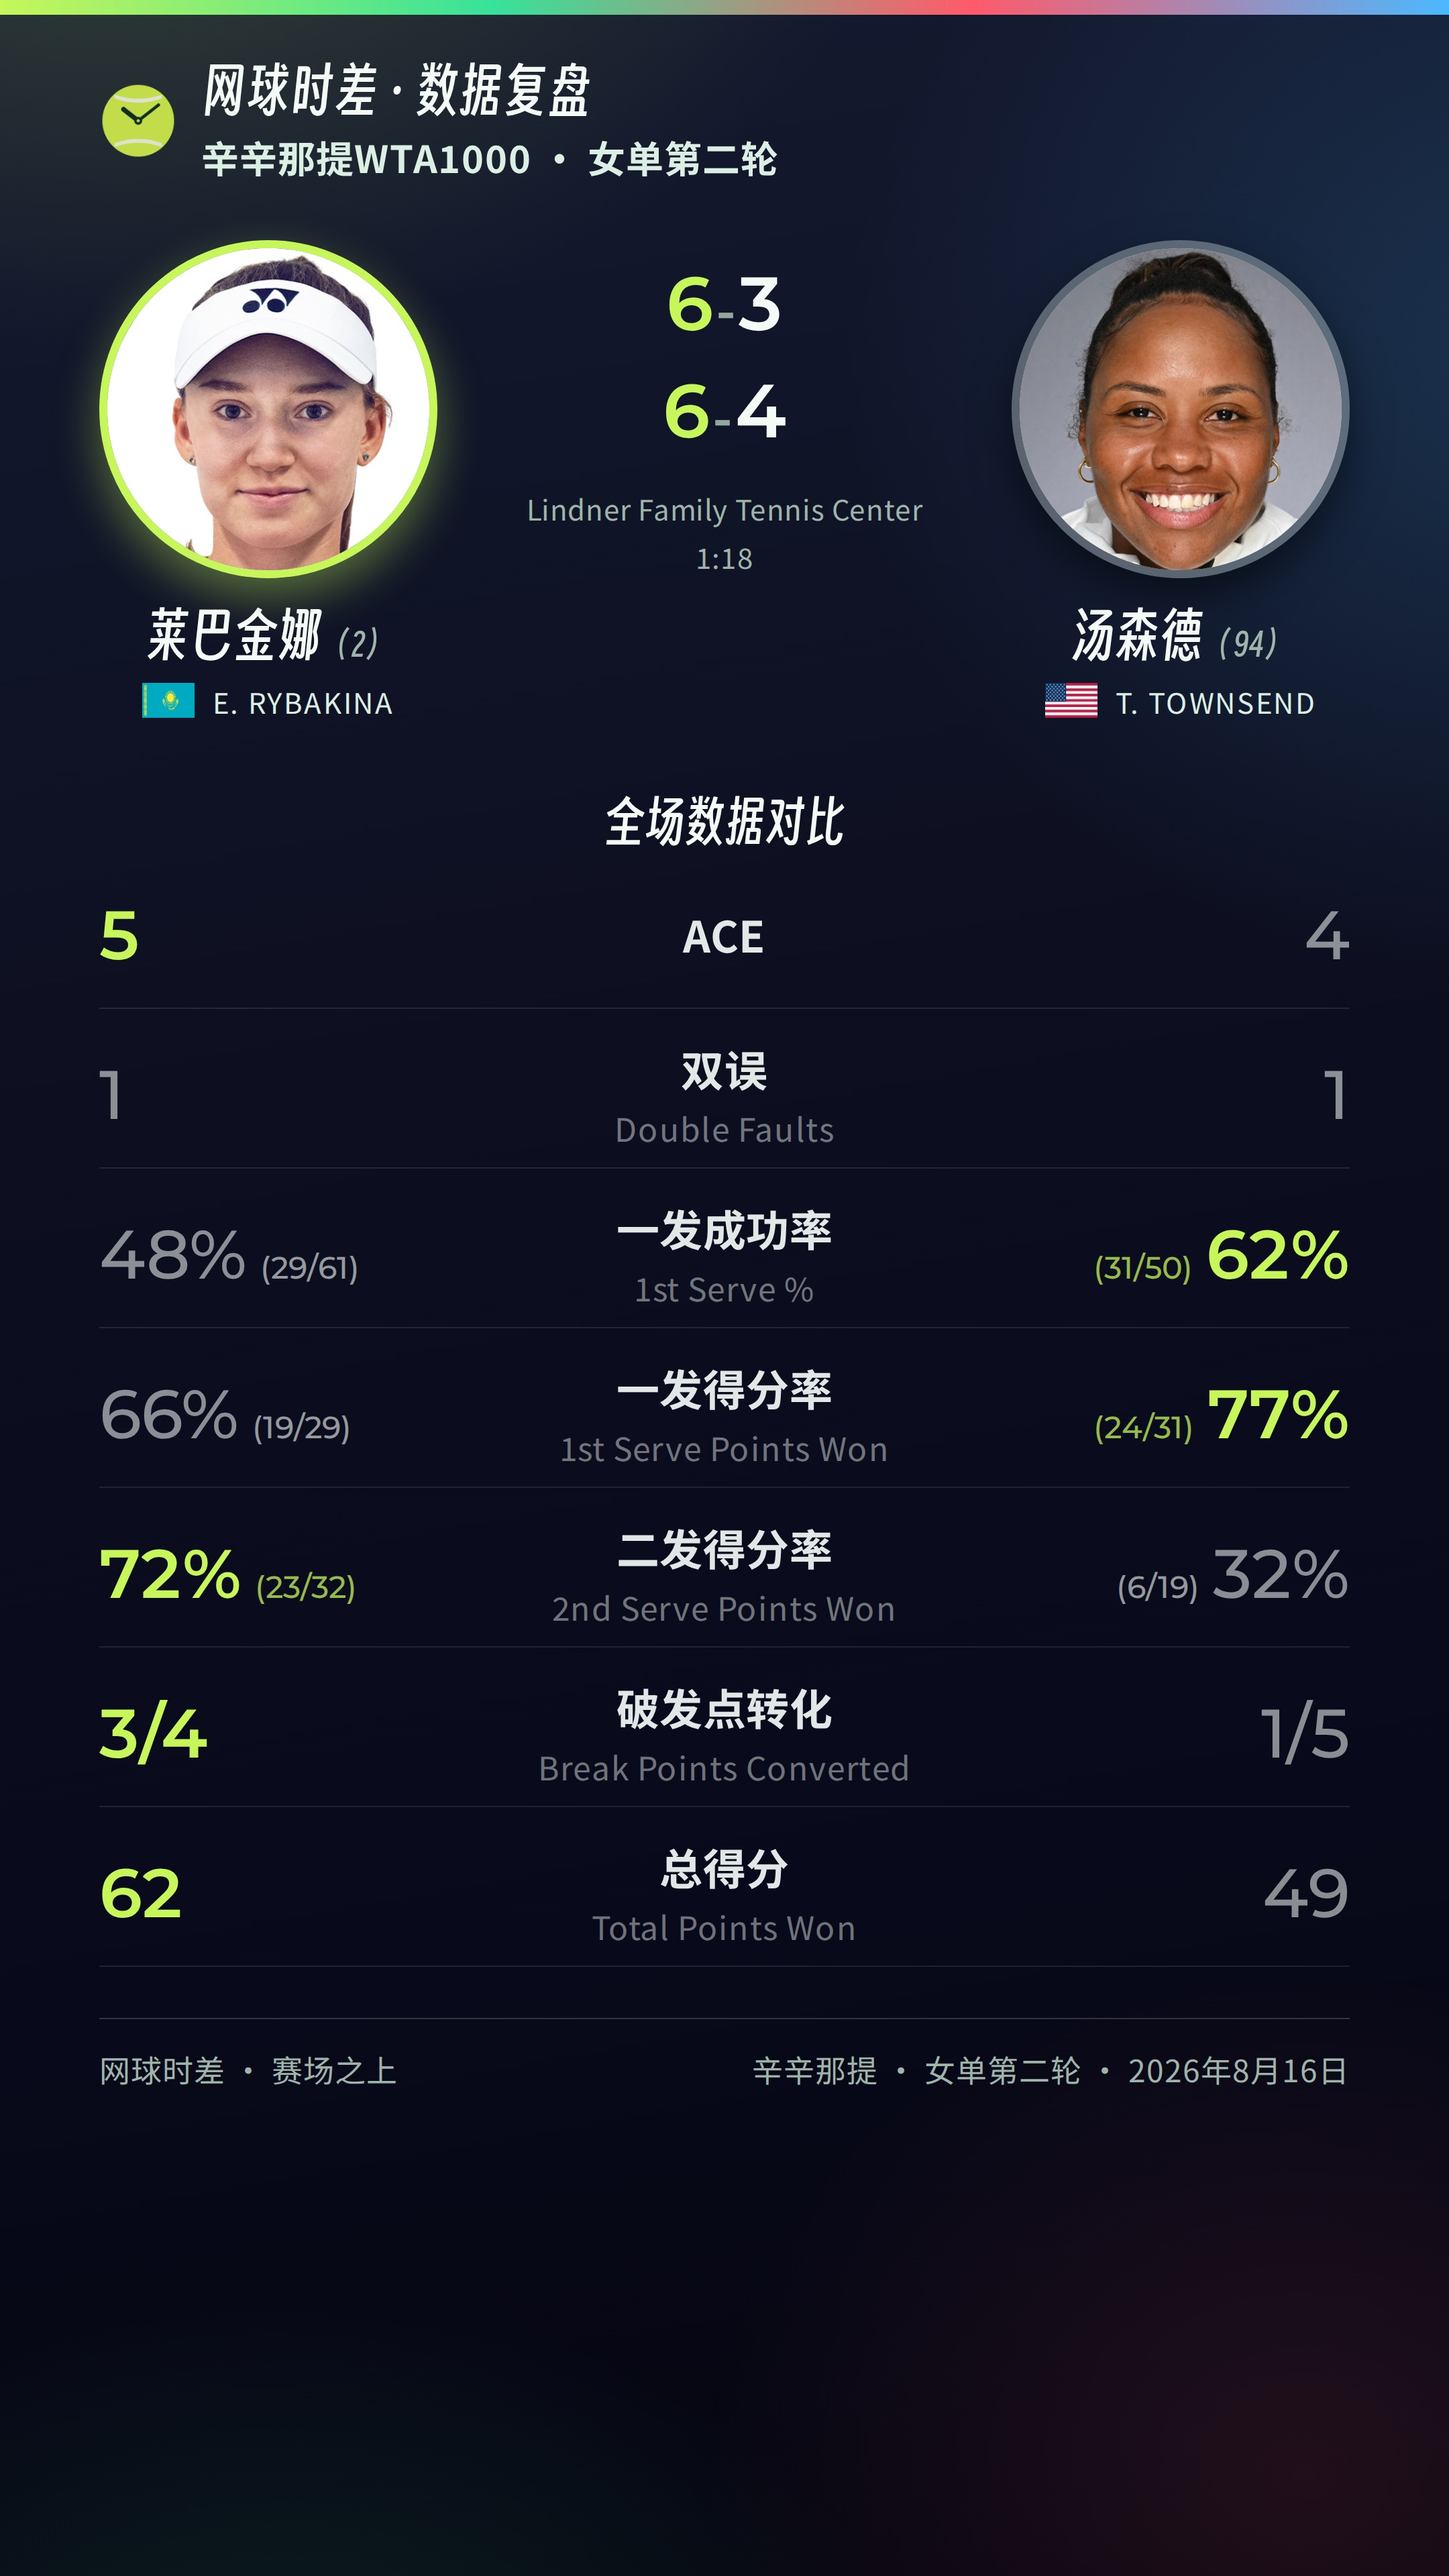
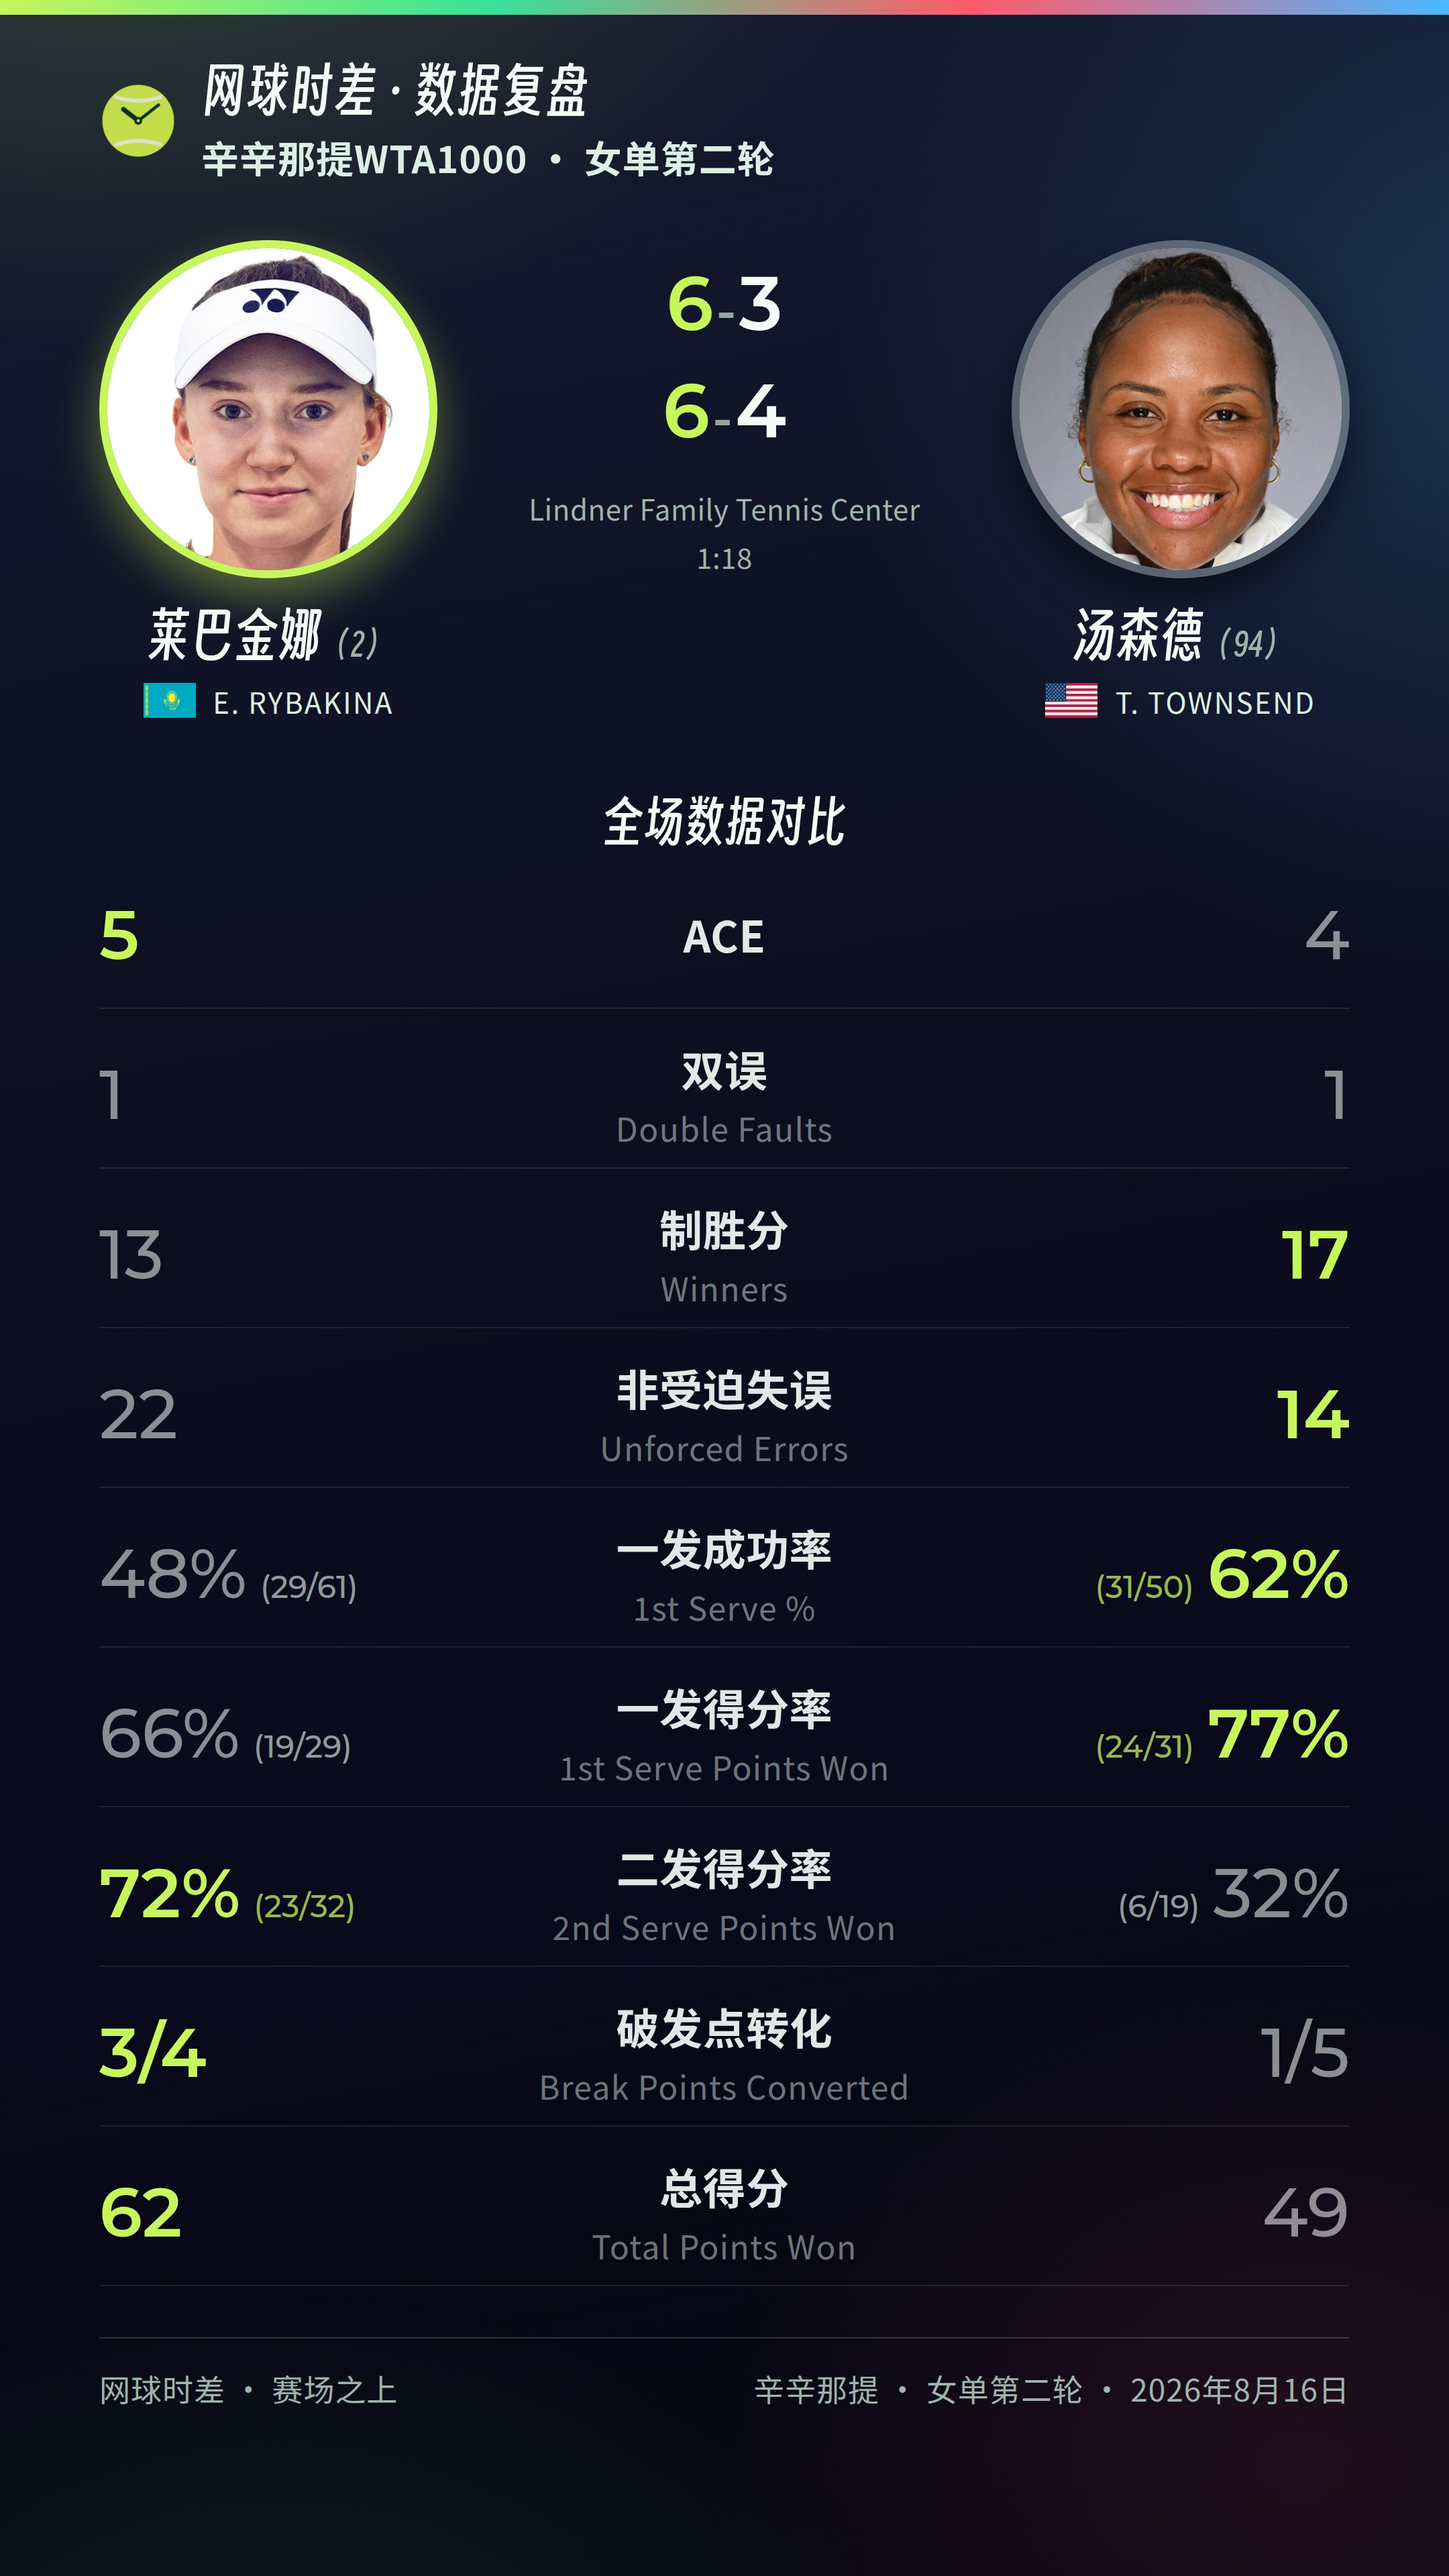
莱巴金娜那条的数据图补齐制胜分和 UE；百分比不许再写「几成几」
## 数据图

`townsend-rybakina` 的 `stats` 里制胜分和非受迫失误一直是空的，而**那是我查错了**。
第一版 `_winners_ue_why` 写着「跑过 tnns-stats（id=73467044），TNNS 这场也没有这两行」
——那个 id 认到的不是这一场，于是拿回一个假的「没有」，还把它当成事实写进了 spec
并发了出去。CLAUDE.md 里「TNNS Live」那一节**正好拿这场当样例**（run 31959466961，
`17 / 13`、`14 / 22`），答案一直印在那儿。

重跑（`who=Rybakina,Townsend` `date=2026-08-16`，run 31969012305）：选手顺序
`['Townsend','Rybakina']`，制胜分 `[17, 13]`、非受迫失误 `[14, 22]`，分盘合计等于
全场（两项都自证 ✅），和文档里记的一字不差。a/b 跟着 `cover.matchup[0]`（莱巴金娜）
整块对调之后是 `a 13/22`、`b 17/14`。

这两个数**反过来印证了这条片子的主线**：汤森德制胜分更多（17 比 13）、非受迫失误
更少（14 比 22），可她输了——赢的地方在二发（72% 对 32%），正是旁白第 ⑦⑧ 段讲的
那件事。

成片不重渲（消息发出去收不回来），只用 `tools/render_stat_card.py` 单独重出数据图。

## 「几成几」

账号所有者：「以后文案和配音里不要再出现几成几了，就说百分之多少用数字写上」。
「三成四」要读的人自己换算成 34%，而刷到的人多想一步就走了——和「轮次写半决赛
不写四强」是同一个形状。

- 旁白写「百分之三十四」（TTS 读得对，`arabic_numerals()` 会烧成「百分之34」）；
  小红书正文直接写 `34%` 也行，那是给眼睛读的
- 判据 `test_百分比写百分之多少不写几成几` + 豁免表自检。正则要求「成」前面紧挨着
  一个数词，所以「改成/完成/变成/一发成功率」不会误伤。反向验证做过：往一条非豁免
  的 spec 里塞「三成四」当场红，还原后绿
- ⚠ 这道闸今天只盖住 `specs/reels/`；解说片的 `_SCRIPTS` 和 `specs/interviews/`
  五个文件里还有存量，扩过去要各配一张豁免表。这一条写进 CLAUDE.md 了

## 另外两条写进 CLAUDE.md

- **宁可等 1080p，也别现在就用 720p**（账号所有者原话）。判据是「查过 YouTube
  频道、当时没有这一场」，不是「我先搜到的是站内版」——两者在 `_source` 里长得
  一样，而前者是等过的
- **TNNS 认错场次会拿回一个假的「没有」**：按 `--who <姓>,<姓>` 加 `--date` 认，
  别钉 `--match-id`；报告里那行「选手顺序」就是自证，名字对不上这一场，后面的数
  一个都不能用

全量 2099 passed, 55 skipped。

Claude-Session: https://claude.ai/code/session_01DqQUvSsKoLU2dhYTastyWb

diff --git a/tests/test_reel_editorial.py b/tests/test_reel_editorial.py
@@ -1114,3 +1114,89 @@ def test_打多少拍的豁免表只许减不许加():
     stale = _RALLY_SECONDS_LEGACY - set(_rally_seconds_offenders())
     assert not stale, (
         f"这几条已经不说秒了，从表里删掉：{sorted(stale)}——这张表只许减不许加")
+
+
+# ──────────────────────────────────────────────────────────────────────────
+# N、百分比一律写成「百分之 N」，不写「几成几」
+# ──────────────────────────────────────────────────────────────────────────
+#
+# 账号所有者 2026-08-16：「**以后文案和配音里不要再出现几成几了，就说百分之多少
+# 用数字写上**」。
+#
+# 来路：这条线的旁白长期在写「一发只进了三成四」「二发得分率都上了七成五」
+# 「一发得分率从六成一涨到七成五」。**「三成四」要读的人自己换算成 34%**，
+# 而这类片子的观众是刷过来的，多想一步就是走掉一个人——和「轮次写半决赛不写
+# 四强」是同一个形状（那条防的是「四强是打到哪一步」要多想一步）。
+#
+# 改法：**旁白里写「百分之三十四」这种会被 TTS 读对的形式，屏幕上和正文里写
+# 数字**。`arabic_numerals()` 会把旁白里的中文数字换成阿拉伯数字再烧进字幕，
+# 所以「百分之三十四」在画面上就是「百分之34」；小红书正文直接写 `34%` 也行，
+# 那是给眼睛读的。
+#
+# ⚠ **这条只拦「几成几」这一个说法，不拦百分比本身。** 一发成功率该讲还是讲。
+#
+# ⚠ **判据不扫 `_why` / `_source` 这类注解**——那儿正引着这条规矩本身的例子，
+# 连它一起扫就会把「把规矩记下来」判成「又违反了规矩」（这个仓库犯过五次）。
+#
+# ⚠ 正则要求「成」**前面紧挨着一个数词**，所以「改成 / 完成 / 变成 / 裁成 /
+# 判成 / 一发成功率」都不会被误伤（改、完、变、裁、判、发都不是数词）；
+# 「成功 / 成为 / 成立 / 成绩 / 成片 / 成长」再用后向排除挡一层。
+_PERCENT_IDIOM = re.compile(r"[一二三四五六七八九两]成(?![功为立绩片长])")
+
+# 这条规矩之前就发出去的，收不回来。**只许减不许加**，底下的判据会自检。
+_PERCENT_IDIOM_LEGACY = frozenset({
+    "baez-dimitrov", "bartunkova-charaeva", "cirstea-bartunkova",
+    "eala-osaka", "eala-pegula-final", "eala-ruse", "eala-zheng",
+    "fonseca-ruud", "hijikata-monfils", "kenin-lys", "kovacevic-khachanov",
+    "medvedev-zandschulp", "navarro-kalinina", "noskova-mcnally",
+    "ostapenko-frech", "parry-mertens", "potapova-venus", "shang-vallejo",
+    "sonmez-anisimova", "swiatek-rybakina-toronto-final", "townsend-osorio",
+    "townsend-rybakina", "wang-pareja", "wang-vandewinkel", "wang-vekic",
+    "wangxiyu-timofeeva", "zhang-sabalenka", "zverev-griekspoor",
+})
+
+
+def _percent_idiom_offenders():
+    """{slug: [命中的说法]}，只扫**会发出去**的字段。"""
+    out = {}
+    for slug, spec in _specs():
+        texts = [str((spec.get("cover") or {}).get("hook") or "")]
+        texts += [str(v) for v in (spec.get("push") or {}).values()
+                  if isinstance(v, str)]
+        texts += [str(s.get("narration") or "") for s in spec.get("segments") or []]
+        texts += [str(v) for v in (spec.get("topbar") or {}).values()
+                  if isinstance(v, str)]
+        xhs = SPEC_DIR / f"{slug}.xhs.txt"
+        if xhs.is_file():
+            texts.append(xhs.read_text("utf-8"))
+        hits = [m.group(0) for t in texts for m in _PERCENT_IDIOM.finditer(t)]
+        if hits:
+            out[slug] = sorted(set(hits))
+    return out
+
+
+def test_百分比写百分之多少不写几成几():
+    fresh = {k: v for k, v in _percent_idiom_offenders().items()
+             if k not in _PERCENT_IDIOM_LEGACY}
+    assert not fresh, (
+        f"这几条把百分比写成了「几成几」：{fresh}。账号所有者 2026-08-16："
+        f"「以后文案和配音里不要再出现几成几了，就说百分之多少用数字写上」——"
+        f"「三成四」要读的人自己换算成 34%，而刷到这条的人多想一步就走了。\n"
+        f"⚠ 旁白写「百分之三十四」（TTS 读得对，`arabic_numerals()` 会把它烧成"
+        f"「百分之34」）；小红书正文直接写 `34%` 也行，那是给眼睛读的。\n"
+        f"⚠ 这条只拦这一个说法，不拦百分比本身——一发成功率该讲还是讲。")
+    assert len(list(_specs())) >= 40, "一条 spec 都没扫到，判据的主语像是没了"
+
+
+def test_几成几的豁免表只许减不许加():
+    """表里每个 slug 必须真的存在、而且真的还带着这个说法。
+
+    写错一个名字，豁免就成了一盏恒真的绿灯。
+    """
+    for slug in sorted(_PERCENT_IDIOM_LEGACY):
+        assert (SPEC_DIR / f"{slug}.json").is_file(), \
+            f"{slug} 这条 spec 已经没了，把它从豁免表里删掉"
+    stale = _PERCENT_IDIOM_LEGACY - set(_percent_idiom_offenders())
+    assert not stale, (
+        f"这几条已经不写「几成几」了，从表里删掉：{sorted(stale)}"
+        f"——这张表只许减不许加")
